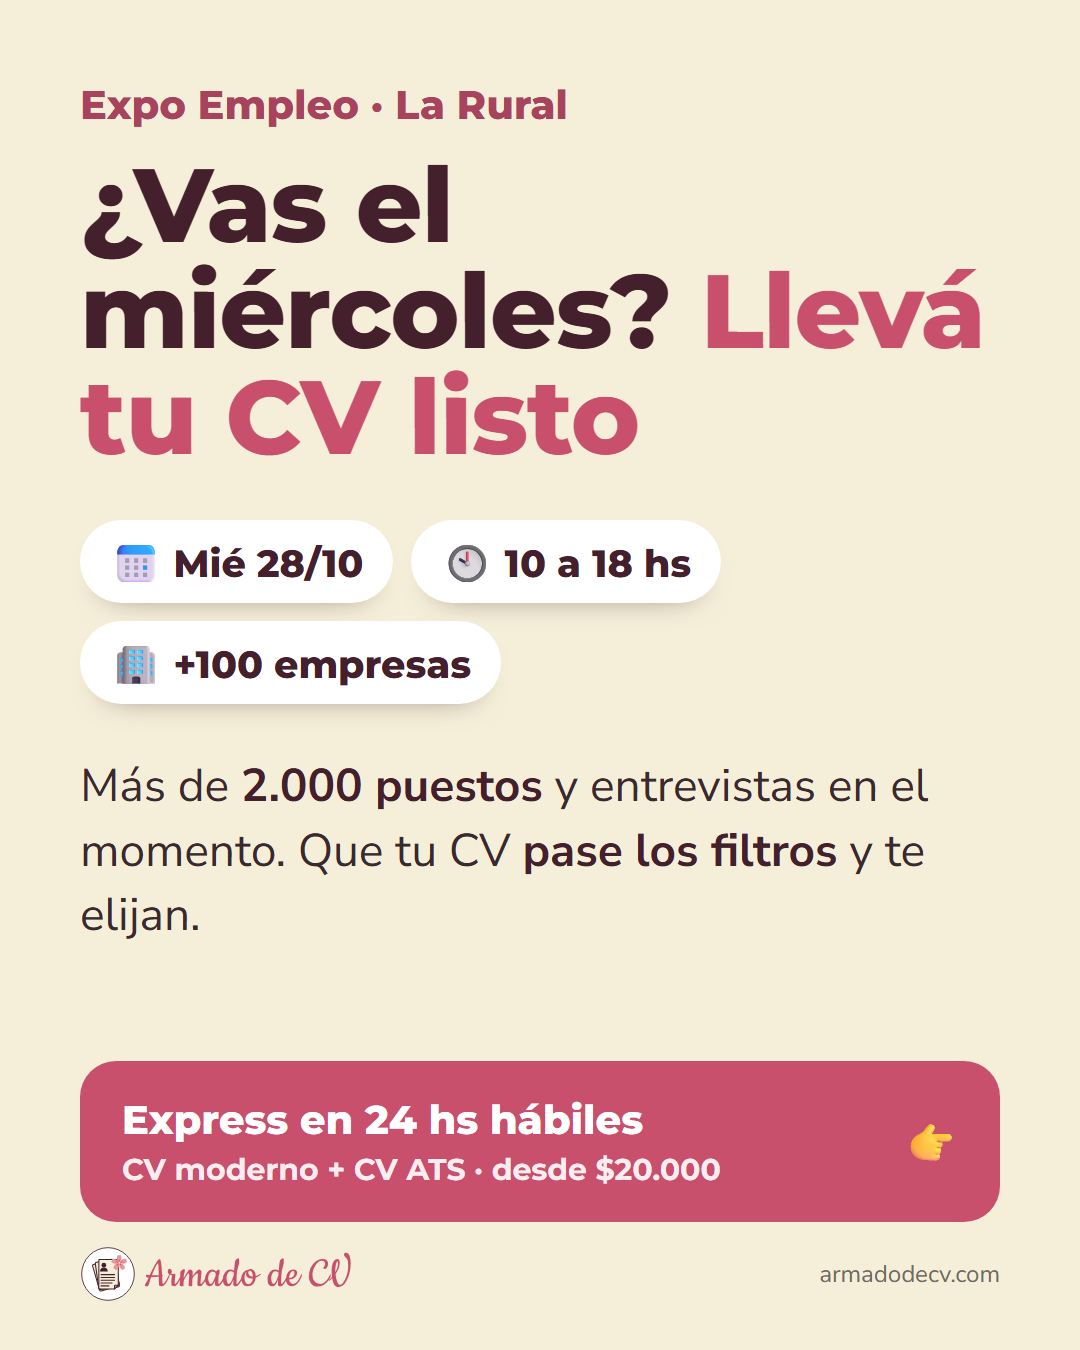
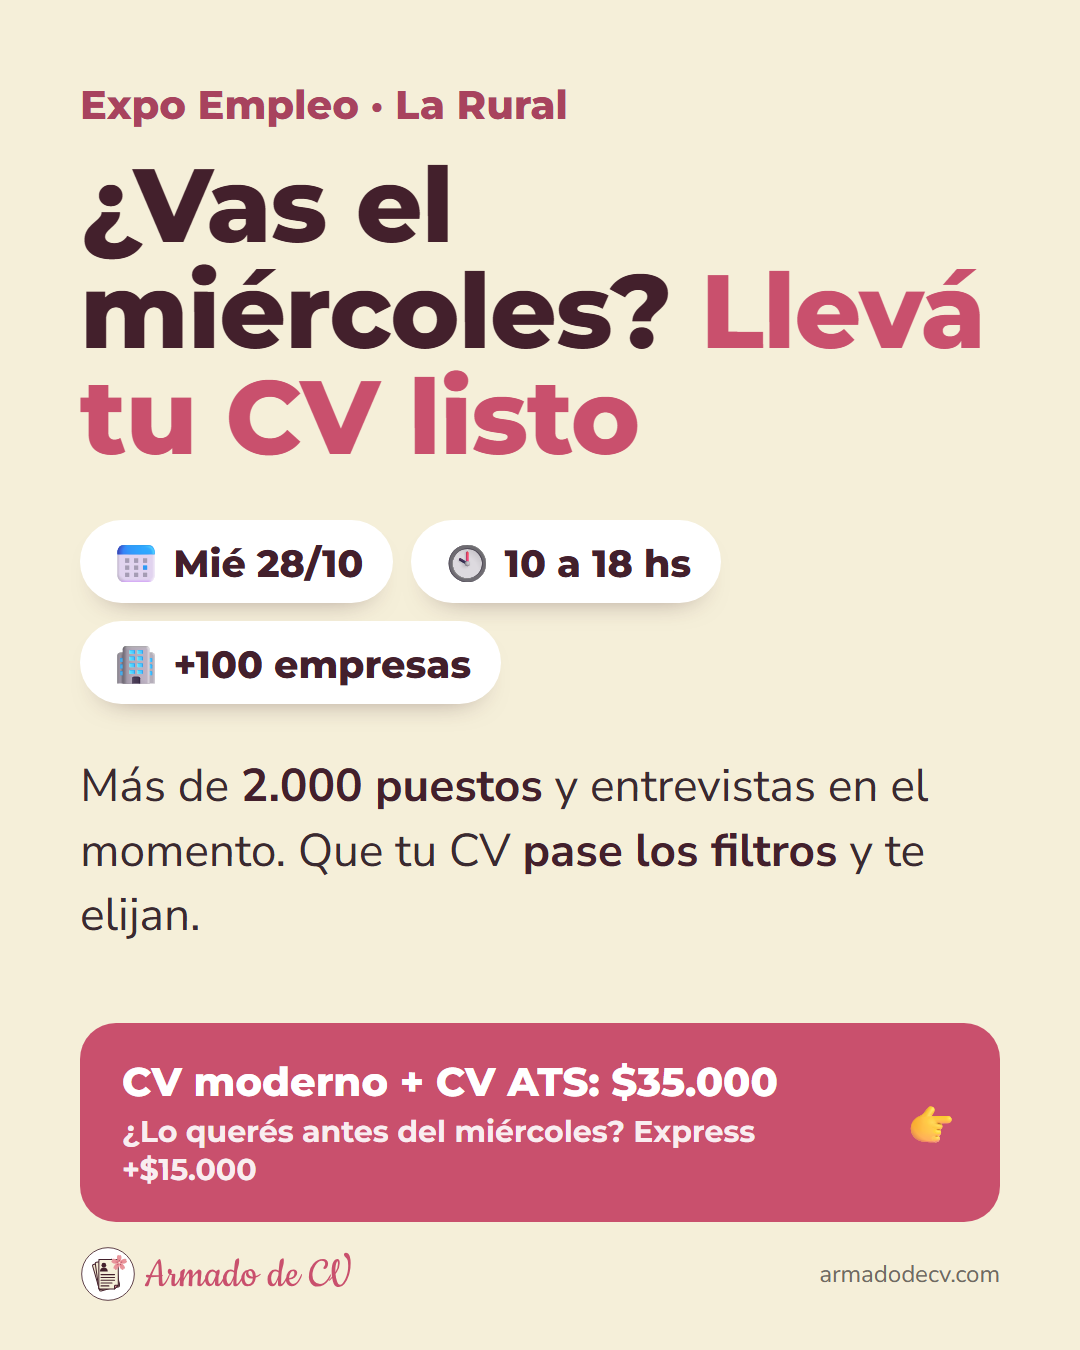
Anuncios y links: precio real de los packs (desde $35.000) y Express aparte

Changed region(s): [[0.0611, 0.7467, 0.9472, 0.8711]]

diff --git a/app/links/page.tsx b/app/links/page.tsx
@@ -9,7 +9,7 @@ export const metadata: Metadata = pageMetadata({ path: '/links', title: 'Links',
 
 const LINKS = [
   { href: '/test-ats', icon: FileCheck2, title: '¿Tu CV pasa los filtros?', text: 'Hacé el test ATS gratis en 2 minutos', tone: 'bg-ciruela text-white', sub: 'text-white/80' },
-  { href: '/#precios', icon: Sparkles, title: 'Packs de CV y LinkedIn', text: 'Tu CV moderno + CV ATS, desde $20.000', tone: 'bg-rosa text-white', sub: 'text-white/85' },
+  { href: '/#precios', icon: Sparkles, title: 'Packs de CV y LinkedIn', text: 'Tu CV moderno + CV ATS, desde $35.000', tone: 'bg-rosa text-white', sub: 'text-white/85' },
   { href: '/#guias', icon: BookOpen, title: 'Guías para tu búsqueda', text: 'LinkedIn, portales, filtros ATS · desde $5.900', tone: 'bg-white text-ciruela', sub: 'text-piedra' },
   { href: '/#etapas', icon: BookOpen, title: 'Guías según tu edad', text: 'A los 20, 30, 40 y 50+ · $12.000', tone: 'bg-white text-ciruela', sub: 'text-piedra' },
   { href: '/gratis', icon: Gift, title: 'Checklist gratis', text: 'Revisá tu CV en 10 minutos', tone: 'bg-white text-ciruela', sub: 'text-piedra' },
